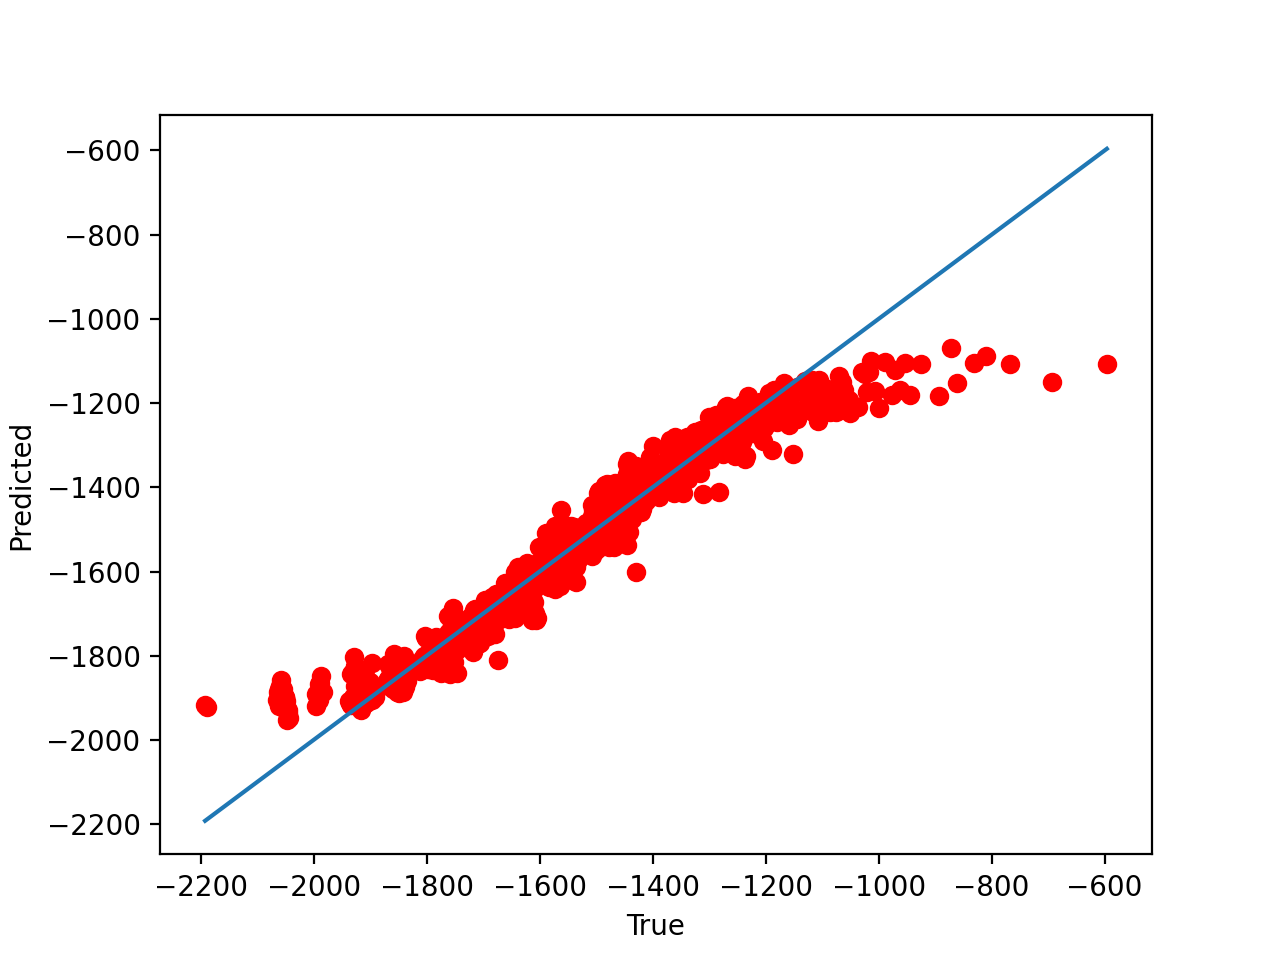
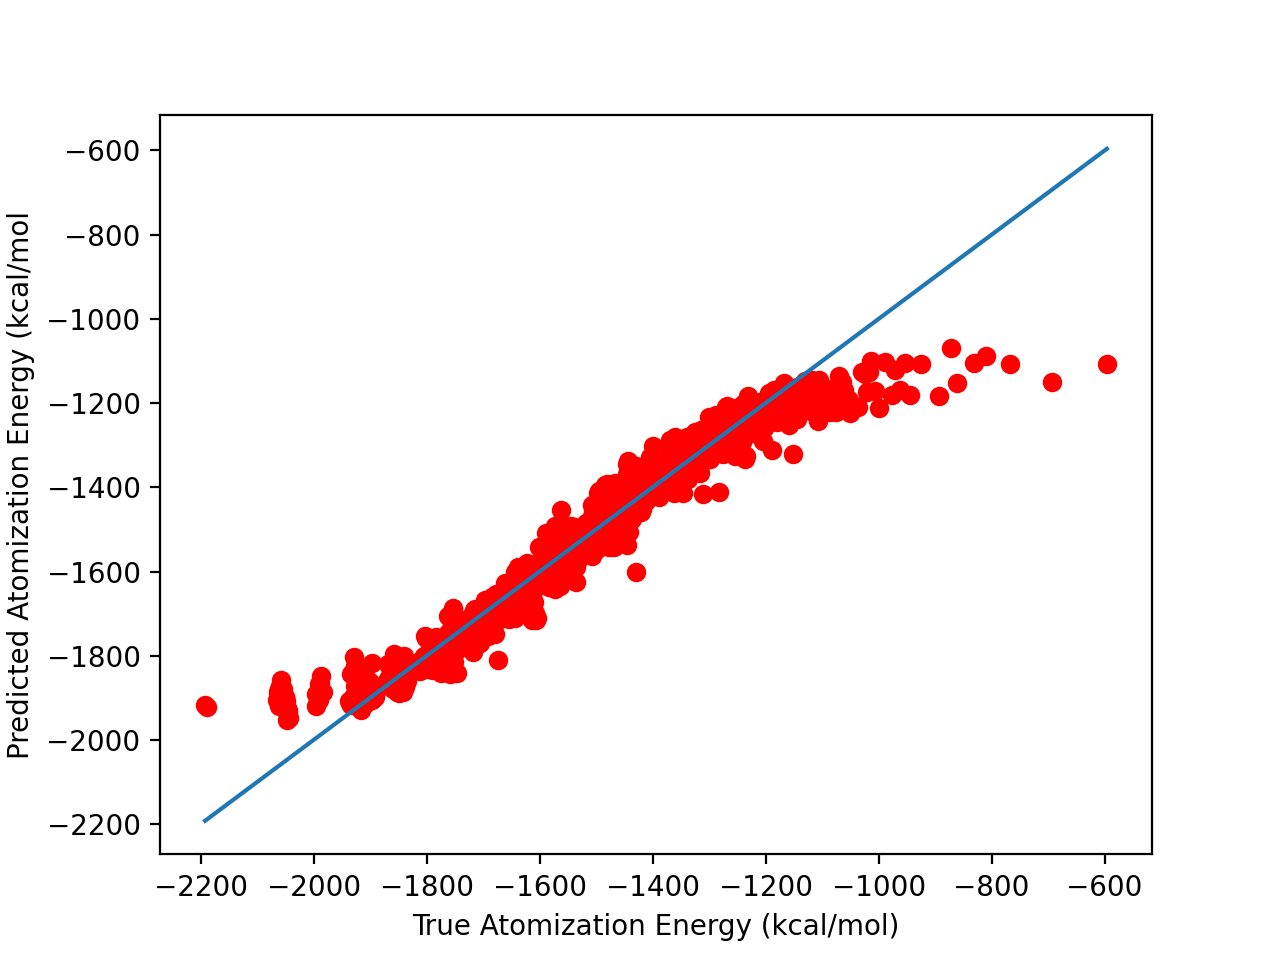
Include units in the results graph

Changed region(s): [[0.0, 0.2188, 0.0312, 0.7812], [0.3125, 0.9375, 0.6875, 1.0]]

diff --git a/plot.py b/plot.py
@@ -30,8 +30,8 @@ temp = np.arange(mini, maxi, 0.1)
 plt.plot(temp, temp)
 
 # Set axis labels
-plt.xlabel("True")
-plt.ylabel("Predicted")
+plt.xlabel("True Atomization Energy (kcal/mol)")
+plt.ylabel("Predicted Atomization Energy (kcal/mol")
 
 # Show only 3 values on the axes:
 # x_values = axes.get_xticks()
